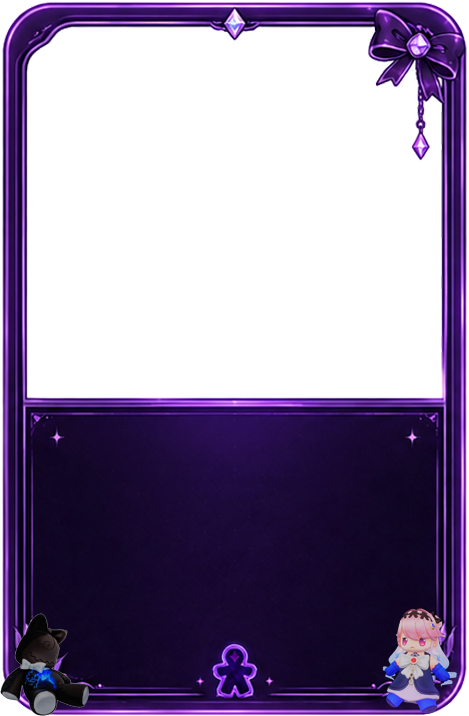
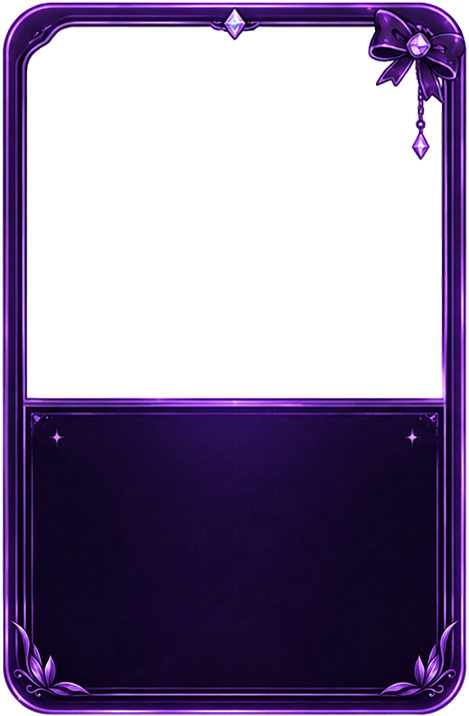
Update cards, Tune Strain formula, cafeteria event and card frames

Changed region(s): [[0.0, 0.8296, 1.0, 1.0]]

diff --git a/src/Events/DeniaAcademyCafeteriaEvent.cs b/src/Events/DeniaAcademyCafeteriaEvent.cs
@@ -1,0 +1,93 @@
+#nullable enable
+using System;
+using System.Collections.Generic;
+using System.Linq;
+using System.Threading.Tasks;
+using MegaCrit.Sts2.Core.Commands;
+using MegaCrit.Sts2.Core.Entities.Cards;
+using MegaCrit.Sts2.Core.Events;
+using MegaCrit.Sts2.Core.Extensions;
+using MegaCrit.Sts2.Core.HoverTips;
+using MegaCrit.Sts2.Core.Models;
+using MegaCrit.Sts2.Core.Models.Acts;
+using MegaCrit.Sts2.Core.Nodes.CommonUi;
+using MegaCrit.Sts2.Core.Runs;
+
+namespace Denia;
+
+/// <summary>第一层专属事件：学院的食堂。</summary>
+public sealed class DeniaAcademyCafeteriaEvent : DeniaExclusiveEvent
+{
+    private int[]? _foodChoiceIndices;
+
+    public override string? CustomInitialPortraitPath => "res://images/events/denia_event_academy_cafeteria.png";
+    public override ActModel[] Acts => new ActModel[] { ModelDb.Act<Overgrowth>(), ModelDb.Act<Underdocks>() };
+    public override bool IsAllowed(IRunState runState) => HasOnlyDeniaPlayers(runState);
+
+    protected override IReadOnlyList<EventOption> GenerateInitialOptions()
+    {
+        var options = new List<EventOption>
+        {
+            FoodOption<DeniaFrozenStarMossCake, DeniaMeltingAway>(TakeFrozenStarMossCake),
+            FoodOption<DeniaFernAlgaeCake, DeniaHappyBirthday>(TakeFernAlgaeCake),
+            FoodOption<DeniaKarakara, DeniaCrush>(TakeKarakara),
+            FoodOption<DeniaTorchPineNut, DeniaDontComeIn>(TakeTorchPineNut),
+            FoodOption<DeniaRainbowCandyJump, DeniaInspectionReportRa2499G>(TakeRainbowCandyJump),
+            FoodOption<DeniaDetermination, DeniaEntropyBoost>(TakeDetermination),
+            FoodOption<DeniaPineNeedleRockFloss, DeniaLightCall>(TakePineNeedleRockFloss),
+            FoodOption<DeniaCannedFishCake, DeniaKeepRunning>(TakeCannedFishCake),
+        };
+        if (_foodChoiceIndices == null)
+        {
+            var indices = Enumerable.Range(0, options.Count).ToList();
+            indices.UnstableShuffle(Rng);
+            _foodChoiceIndices = indices.Take(3).ToArray();
+        }
+        // 返回时保留原来的三组，但重建选项以重置原生 WasChosen 标记。
+        return _foodChoiceIndices.Select(i => options[i]).Append(Option(RefuseFood)).ToArray();
+    }
+
+    private EventOption FoodOption<TFood, TCard>(Func<Task> onChosen)
+        where TFood : CardModel where TCard : CardModel =>
+        Option(onChosen, HoverTipFactory.FromCardWithCardHoverTips<TFood>()
+            .Concat(HoverTipFactory.FromCardWithCardHoverTips<TCard>()));
+
+    private Task TakeFrozenStarMossCake() => TakeCards<DeniaFrozenStarMossCake, DeniaMeltingAway>("TAKE_FROZEN_STAR_MOSS_CAKE");
+    private Task TakeFernAlgaeCake() => TakeCards<DeniaFernAlgaeCake, DeniaHappyBirthday>("TAKE_FERN_ALGAE_CAKE");
+    private Task TakeKarakara() => TakeCards<DeniaKarakara, DeniaCrush>("TAKE_KARAKARA");
+    private Task TakeTorchPineNut() => TakeCards<DeniaTorchPineNut, DeniaDontComeIn>("TAKE_TORCH_PINE_NUT");
+    private Task TakeRainbowCandyJump() => TakeCards<DeniaRainbowCandyJump, DeniaInspectionReportRa2499G>("TAKE_RAINBOW_CANDY_JUMP");
+    private Task TakeDetermination() => TakeCards<DeniaDetermination, DeniaEntropyBoost>("TAKE_DETERMINATION");
+    private Task TakePineNeedleRockFloss() => TakeCards<DeniaPineNeedleRockFloss, DeniaLightCall>("TAKE_PINE_NEEDLE_ROCK_FLOSS");
+    private Task TakeCannedFishCake() => TakeCards<DeniaCannedFishCake, DeniaKeepRunning>("TAKE_CANNED_FISH_CAKE");
+
+    private async Task TakeCards<TFood, TCard>(string pageKey)
+        where TFood : CardModel where TCard : CardModel
+    {
+        foreach (CardModel card in new CardModel[] { Owner!.RunState.CreateCard<TFood>(Owner), Owner.RunState.CreateCard<TCard>(Owner) })
+            CardCmd.PreviewCardPileAdd(await CardPileCmd.Add(card, PileType.Deck), 1.2f, CardPreviewStyle.EventLayout);
+        SetEventFinished(PageDescription(pageKey));
+    }
+
+    private Task RefuseFood()
+    {
+        SetEventState(PageDescription("REFUSE_FOOD"), new[]
+        {
+            Option(ConfirmStarve, "REFUSE_FOOD").ThatWillKillPlayerIf(_ => true),
+            Option(ReturnToFood, "REFUSE_FOOD"),
+        });
+        return Task.CompletedTask;
+    }
+
+    private Task ReturnToFood()
+    {
+        SetEventState(InitialDescription, GenerateInitialOptions());
+        return Task.CompletedTask;
+    }
+
+    private async Task ConfirmStarve()
+    {
+        SetEventFinished(PageDescription("STARVE"));
+        await CreatureCmd.Kill(Owner!.RunState.Players.Select(player => player.Creature).ToArray(), force: true);
+    }
+}

diff --git a/src/Events/DeniaExclusiveEvents.cs b/src/Events/DeniaExclusiveEvents.cs
@@ -7,7 +7,6 @@ using BaseLib.Abstracts;
 using MegaCrit.Sts2.Core.CardSelection;
 using MegaCrit.Sts2.Core.Commands;
 using MegaCrit.Sts2.Core.Entities.Cards;
-using MegaCrit.Sts2.Core.Entities.Gold;
 using MegaCrit.Sts2.Core.Events;
 using MegaCrit.Sts2.Core.Extensions;
 using MegaCrit.Sts2.Core.GameActions.Multiplayer;
@@ -58,59 +57,6 @@ public sealed class DeniaSummerBeachEvent : DeniaExclusiveEvent
     {
         await CreatureCmd.LoseMaxHp(new ThrowingPlayerChoiceContext(), Owner!.Creature, 12m, isFromCard: false);
         CardModel card = Owner.RunState.CreateCard<T>(Owner);
-        CardCmd.PreviewCardPileAdd(await CardPileCmd.Add(card, PileType.Deck), 1.2f, CardPreviewStyle.EventLayout);
-        SetEventFinished(PageDescription(pageKey));
-    }
-}
-
-/// <summary>第一层专属事件：学院的食堂。</summary>
-public sealed class DeniaAcademyCafeteriaEvent : DeniaExclusiveEvent
-{
-    public override string? CustomInitialPortraitPath => "res://images/events/denia_event_academy_cafeteria.png";
-
-    public override ActModel[] Acts => new ActModel[] { ModelDb.Act<Overgrowth>(), ModelDb.Act<Underdocks>() };
-
-    public override bool IsAllowed(IRunState runState) =>
-        HasOnlyDeniaPlayers(runState) && runState.Players.All(player => player.Gold >= 100);
-
-    protected override IReadOnlyList<EventOption> GenerateInitialOptions()
-    {
-        var options = new List<EventOption>
-        {
-            FoodOption<DeniaFrozenStarMossCake>(100, BuyFrozenStarMossCake),
-            FoodOption<DeniaFernAlgaeCake>(100, BuyFernAlgaeCake),
-            FoodOption<DeniaKarakara>(100, BuyKarakara),
-            FoodOption<DeniaTorchPineNut>(100, BuyTorchPineNut),
-            FoodOption<DeniaRainbowCandyJump>(100, BuyRainbowCandyJump),
-            FoodOption<DeniaDetermination>(50, BuyDetermination),
-            FoodOption<DeniaPineNeedleRockFloss>(50, BuyPineNeedleRockFloss),
-            FoodOption<DeniaCannedFishCake>(50, BuyCannedFishCake),
-        };
-
-        options.UnstableShuffle(Rng);
-        return options.Take(4).ToList();
-    }
-
-    private EventOption FoodOption<T>(int cost, Func<Task> onChosen) where T : CardModel
-    {
-        if (Owner!.Gold < cost)
-            return LockedOption($"LOCKED_{cost}");
-        return Option(onChosen, HoverTipFactory.FromCardWithCardHoverTips<T>());
-    }
-
-    private Task BuyFrozenStarMossCake() => BuyCard<DeniaFrozenStarMossCake>(100, "BUY_FROZEN_STAR_MOSS_CAKE");
-    private Task BuyFernAlgaeCake() => BuyCard<DeniaFernAlgaeCake>(100, "BUY_FERN_ALGAE_CAKE");
-    private Task BuyKarakara() => BuyCard<DeniaKarakara>(100, "BUY_KARAKARA");
-    private Task BuyTorchPineNut() => BuyCard<DeniaTorchPineNut>(100, "BUY_TORCH_PINE_NUT");
-    private Task BuyRainbowCandyJump() => BuyCard<DeniaRainbowCandyJump>(100, "BUY_RAINBOW_CANDY_JUMP");
-    private Task BuyDetermination() => BuyCard<DeniaDetermination>(50, "BUY_DETERMINATION");
-    private Task BuyPineNeedleRockFloss() => BuyCard<DeniaPineNeedleRockFloss>(50, "BUY_PINE_NEEDLE_ROCK_FLOSS");
-    private Task BuyCannedFishCake() => BuyCard<DeniaCannedFishCake>(50, "BUY_CANNED_FISH_CAKE");
-
-    private async Task BuyCard<T>(int cost, string pageKey) where T : CardModel
-    {
-        await PlayerCmd.LoseGold(cost, Owner!, GoldLossType.Spent);
-        CardModel card = Owner!.RunState.CreateCard<T>(Owner);
         CardCmd.PreviewCardPileAdd(await CardPileCmd.Add(card, PileType.Deck), 1.2f, CardPreviewStyle.EventLayout);
         SetEventFinished(PageDescription(pageKey));
     }

diff --git a/src/Cards/DeniaDontComeIn.cs b/src/Cards/DeniaDontComeIn.cs
@@ -6,7 +6,7 @@ using MegaCrit.Sts2.Core.GameActions.Multiplayer;
 
 namespace Denia;
 
-/// <summary>不要···进来 — Common Skill: switch form then gain 20 VM; upg +3 DC.</summary>
+/// <summary>不要···进来 — Uncommon Skill: switch form then gain 6 VM; upg +1 DC.</summary>
 [Pool(typeof(DeniaCardPool))]
 public sealed class DeniaDontComeIn : DeniaCard
 {
@@ -14,10 +14,10 @@ public sealed class DeniaDontComeIn : DeniaCard
         "res://images/packed/card_portraits/denia/card_face_dont_come_in_new.jpg";
 
     public DeniaDontComeIn()
-        : base(1, CardType.Skill, CardRarity.Common, TargetType.Self) { }
+        : base(1, CardType.Skill, CardRarity.Uncommon, TargetType.Self) { }
 
     public override System.Collections.Generic.List<(string, string)>? Localization => new CardLoc(Title: "不要···进来",
-            Description: "切换形态。获得20虚质。{IfUpgraded:show:再获得3黯核。|}");
+            Description: "切换形态。额外获得6虚质。{IfUpgraded:show:再额外获得1黯核。|}");
 
     protected override async Task OnPlay(PlayerChoiceContext ctx, CardPlay play)
     {
@@ -27,10 +27,10 @@ public sealed class DeniaDontComeIn : DeniaCard
         else if (DeniaFormHelper.IsBlack(Owner.Creature))
             await DeniaFormHelper.SwitchToPink(Owner.Creature, Owner.Creature, this);
 
-        await DeniaResourceState.GainVirtualMatter(Owner.Creature, 20, Owner.Creature, this);
+        await DeniaResourceState.GainVirtualMatter(Owner.Creature, 6, Owner.Creature, this);
 
         if (IsUpgraded)
-            await DeniaResourceState.GainDarkCore(Owner.Creature, 3, Owner.Creature, this);
+            await DeniaResourceState.GainDarkCore(Owner.Creature, 1, Owner.Creature, this);
     }
 
     protected override void OnUpgrade() { }

diff --git a/src/TuneStrainMath.cs b/src/TuneStrainMath.cs
@@ -9,14 +9,14 @@ public static class TuneStrainMath
 {
     /// <summary>
     /// tsBias → 倍率底数 tsBias2Base。
-    /// 1 层 → 1.22，2 层 → 1.26，3 层及以上 → 1.31。
+    /// 1 层 → 1.136，2 层及以上 → 1.182；3 层及以上额外放大指数。
     /// 为以后 tsBias &gt; 3 可能设计更多效果留出空间（此处留 API）。
     /// </summary>
     public static double BiasToBase(double tsBias)
     {
         if (tsBias <= 1.0)
-            return 1.22;
-        return tsBias < 3.0 ? 1.26 : 1.31;
+            return 1.136;
+        return 1.182;
     }
 
     /// <summary>
@@ -47,7 +47,7 @@ public static class TuneStrainMath
     }
 
     /// <summary>
-    /// 集谐易伤增伤比例 tsDmgAdvRatio = 0.1 + tsBias2Base(tsBias)^tsRes / 100。
+    /// 集谐易伤增伤比例 tsDmgAdvRatio = 0.1 + 2 × tsBias2Base(tsBias)^exponent / 100；3 层以上 exponent=1.2×tsRes。
     /// 最终伤害 = 原伤害 × (1 + ratio)。
     /// 调用方负责保证 tsRes 已经过 tsResponse 折算（含共鸣模态的 1.5 倍放大）。
     /// </summary>
@@ -56,7 +56,7 @@ public static class TuneStrainMath
         if (tsBias <= 0)
             return 0.0;
         double b = BiasToBase(tsBias);
-        double a = System.Math.Pow(b, tsRes);
-        return 0.1 + a / 100.0;
+        double a = System.Math.Pow(b, tsBias < 3.0 ? tsRes : tsRes * 1.2);
+        return 0.1 + 2.0 * a / 100.0;
     }
 }

diff --git a/src/Powers/TuneStrainInterferencePower.cs b/src/Powers/TuneStrainInterferencePower.cs
@@ -18,7 +18,7 @@ namespace TuneStrain.Powers;
 /// <summary>
 /// 集谐·干涉：处决后附加在怪物身上的可见 debuff，层数等于处决前的集谐·偏移层数（tsBias）。
 /// 存续期间，玩家对该怪物造成的直接攻击伤害按集谐易伤倍率放大。
-/// 增伤比例 = 0.1 + tsBias2Base(tsBias) ^ tsResponse / 100，由 <see cref="TuneStrainMath"/> 计算。
+/// 增伤比例 = 0.1 + 2 × tsBias2Base(tsBias) ^ exponent / 100（3 层以上 exponent=1.2×tsResponse），由 <see cref="TuneStrainMath"/> 计算。
 /// 持续回合数由隐藏的 <see cref="TuneStrainInterferenceDurationPower"/> 单独计量，
 /// 干涉本身不随回合衰减（层数恒定，便于 tsBias 稳定参与倍率计算）。
 /// 重复处决时层数取原干涉与本次偏移的较大值，持续时间重置为 3 回合。
@@ -63,7 +63,7 @@ public sealed class TuneStrainInterferencePower : CustomPowerModel
         if (!props.HasFlag(ValueProp.Move) || props.HasFlag(ValueProp.Unpowered) || props.HasFlag(ValueProp.Unblockable))
             return 1m;
 
-        // 无集谐响应 power 时 tsRes=0，按新公式仍有 0.1+base^0/100=11% 增伤。
+        // 无集谐响应 power 时 tsRes=0，按新公式仍有 0.1+2*base^0/100=12% 增伤。
 
         double tsBias = Amount;
         double tsRes = TuneStrainState.GetResponseDegree(dealer);

diff --git a/src/Cards/DeniaInspectionReportRa2499G.cs b/src/Cards/DeniaInspectionReportRa2499G.cs
@@ -12,7 +12,7 @@ namespace Denia;
 public sealed class DeniaInspectionReportRa2499G : DeniaCard
 {
     public override string PortraitPath => "res://images/packed/card_portraits/denia/card_face_inspection_report_ra2499_g.png";
-    public DeniaInspectionReportRa2499G() : base(0, CardType.Power, CardRarity.Uncommon, TargetType.Self) { }
+    public DeniaInspectionReportRa2499G() : base(0, CardType.Power, CardRarity.Common, TargetType.Self) { }
     public override List<(string, string)>? Localization => new CardLoc(Title: "检验报告RA2499-G",
         Description: "本场战斗中，你的[color=#9A6A18]聚爆[/color]伤害不再是AOE伤害，而是把本应造成的AOE伤害总量全部集中在被引爆的单个目标上。");
     protected override Task OnPlay(PlayerChoiceContext ctx, CardPlay play) =>
